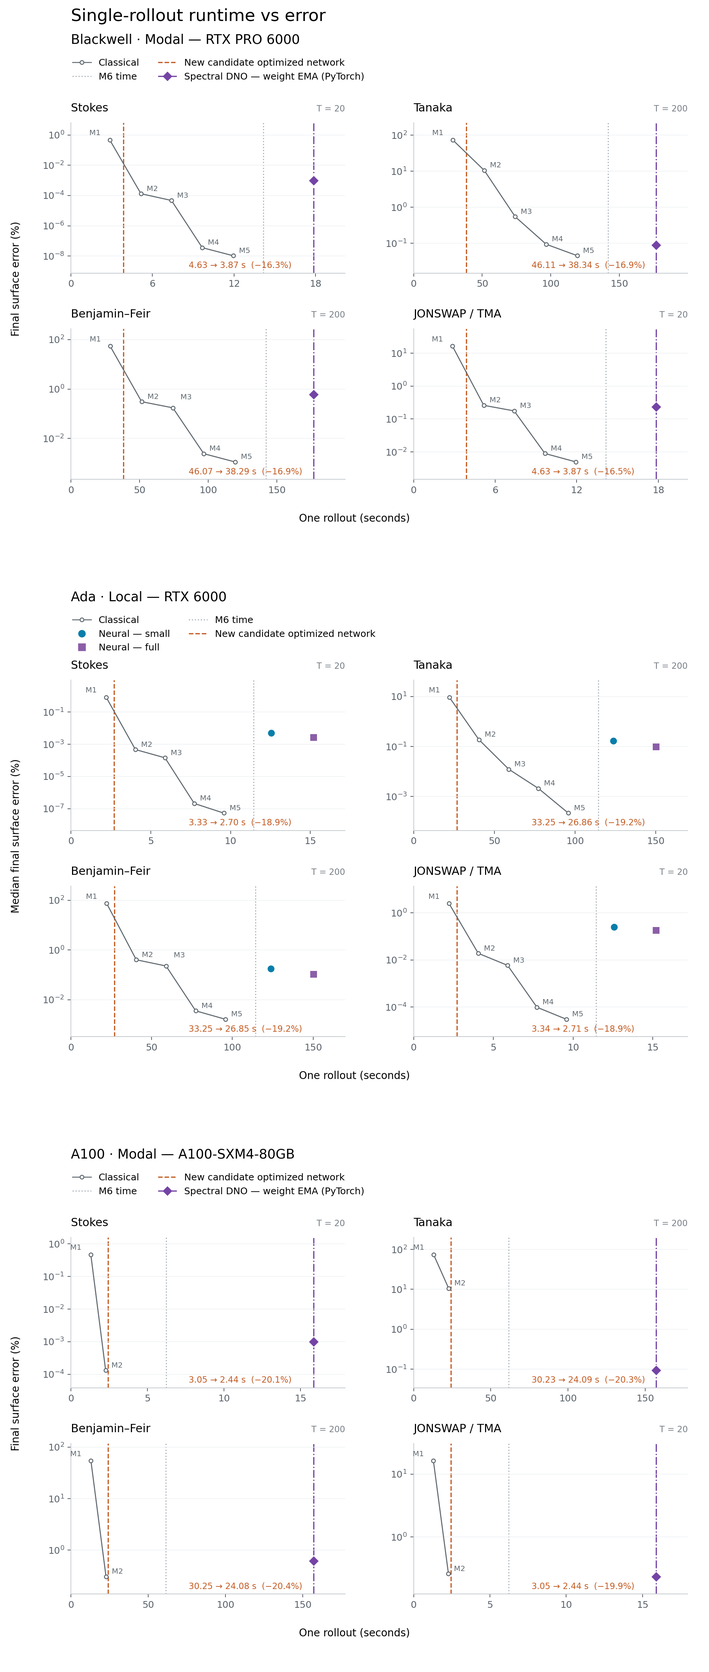
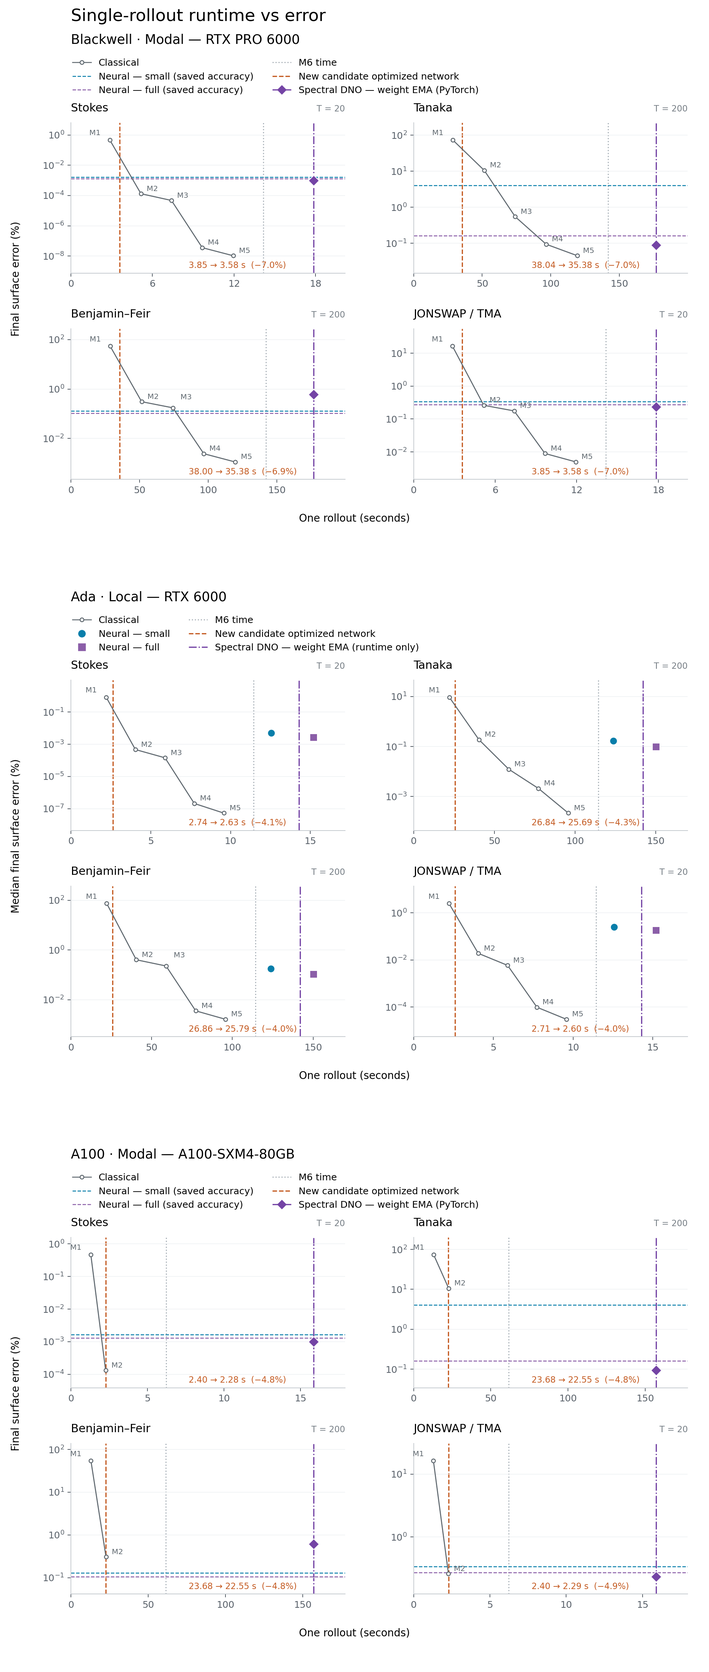
Benchmark cuFFTDx input FFT and refresh rollout comparisons

diff --git a/scripts/benchmark_dno_fusion.py b/scripts/benchmark_dno_fusion.py
@@ -30,7 +30,7 @@ from solver.evals.model_rollout import LoadedRun, build_predict_gxi_batched, loa
 from dno_net_v2 import CraigSulemBlock, CraigSulemDNO, DepthAwareMultiplier  # noqa: E402
 
 VARIANTS = ("original", "g1", "packed", "cached", "all", "batched", "surface", "front")
-TRIALS = ("fourier", "fourier_round", "cufftdx", "cufftdx_joint", "cufftdx_product", "cufftdx_both", "cufftdx_dense", "cufftdx_head",
+TRIALS = ("fourier", "fourier_round", "fourier_reuse", "fourier_input", "cufftdx", "cufftdx_joint", "cufftdx_product", "cufftdx_both", "cufftdx_dense", "cufftdx_head",
           "cufftdx_lowrank16", "cufftdx_lowrank32", "cufftdx_e4", "cufftdx_e16",
           "cufftdx_product_e4", "cufftdx_product_e16")
 
@@ -44,7 +44,7 @@ def build_variant(
         variant, _, suffix = variant.rpartition("_e")
         fft_ept = int(suffix)
     trial = variant
-    spectral_io = variant in ("fourier", "fourier_round")
+    spectral_io = variant.startswith("fourier")
     cufftdx_g1 = variant.startswith("cufftdx")
     if cufftdx_g1 or spectral_io:
         variant = "front"
@@ -92,12 +92,15 @@ def build_variant(
             eta_norm_hat = jnp.fft.rfft(eta_norm)
             xi_phys_hat = (xi_hat.astype(jnp.complex64) / scales[1]) * model.xi_scale
             g1_xi_hat = xi_hat * (model.xi_scale / scales[1]).astype(jnp.float64)
-            if trial == "fourier_round":
-                physical = jnp.fft.irfft(jnp.stack((eta_hat, xi_hat), axis=1), n=nx).astype(jnp.float32)
+            if trial != "fourier":
+                inputs = jnp.stack((eta_hat, xi_hat), axis=1)
+                physical = (fft(inputs, nx, inverse=True, ept=fft_ept) if trial == "fourier_input"
+                            else jnp.fft.irfft(inputs, n=nx)).astype(jnp.float32)
                 normalized = physical / scales[None, :, None]
                 eta_norm, xi_phys = normalized[:, 0], normalized[:, 1] * model.xi_scale
                 eta_norm_hat, xi_phys_hat = jnp.moveaxis(jnp.fft.rfft(jnp.stack((eta_norm, xi_phys), axis=1)), 1, 0)
-                g1_xi_hat = jnp.fft.rfft(xi_phys.astype(jnp.float64))
+                g1_xi_hat = (xi_phys_hat.astype(jnp.complex128) if trial == "fourier_reuse"
+                             else jnp.fft.rfft(xi_phys.astype(jnp.float64)))
             fields = jnp.fft.irfft(jnp.concatenate((
                 surface_ops[None, :, :] * eta_norm_hat[:, None, :],
                 filters * xi_phys_hat[:, None, :],
@@ -249,7 +252,7 @@ if __name__ == "__main__":
     parser.add_argument("--output", type=Path, default=ROOT / "outputs/dno_fusion_20260924")
     parser.add_argument("--repeats", type=int, default=600)
     parser.add_argument("--variants", nargs="+", choices=(*VARIANTS, *TRIALS), default=VARIANTS)
-    parser.add_argument("--reference", choices=("original", "cufftdx"), default="original")
+    parser.add_argument("--reference", choices=("original", "cufftdx", "fourier_round"), default="original")
     parser.add_argument("--ept", type=int, choices=(4, 8, 16), default=8)
     parser.add_argument("--capture", choices=(*VARIANTS, *TRIALS), help="Capture 100 warmed calls of one variant instead of timing/testing.")
     args = parser.parse_args()
@@ -269,7 +272,7 @@ if __name__ == "__main__":
     for variant in (args.capture,) if args.capture else variants:
         started = time.perf_counter()
         forward = build_variant(loaded, depth, eta.shape[-1], variant, fft_ept=args.ept)
-        if variant in ("fourier", "fourier_round"):
+        if variant.startswith("fourier"):
             forward = jax.jit(lambda e, x, fn=forward: jnp.fft.irfft(fn(jnp.fft.rfft(e), jnp.fft.rfft(x)), n=e.shape[-1]))
         executable = forward.lower(eta, xi).compile()
         records[variant] = {"setup_compile_s": time.perf_counter() - started, "seconds": [],
@@ -317,10 +320,13 @@ if __name__ == "__main__":
     check_eta, check_xi = map(jnp.asarray, (np.concatenate(validation_eta), np.concatenate(validation_xi)))
     check_depth = jnp.log(jnp.asarray(np.concatenate(validation_depth)))
     reference_predict = build_variant(loaded, check_depth, eta.shape[-1], args.reference, fft_ept=args.ept)
+    if args.reference.startswith("fourier"):
+        reference_predict = jax.jit(lambda e, x, fn=reference_predict: jnp.fft.irfft(
+            fn(jnp.fft.rfft(e), jnp.fft.rfft(x)), n=e.shape[-1]))
     expected = np.asarray(reference_predict(check_eta, check_xi))
     for variant in (name for name in variants if name != args.reference):
         candidate = build_variant(loaded, check_depth, eta.shape[-1], variant, fft_ept=args.ept)
-        if variant in ("fourier", "fourier_round"):
+        if variant.startswith("fourier"):
             candidate = jax.jit(lambda e, x, fn=candidate: jnp.fft.irfft(fn(jnp.fft.rfft(e), jnp.fft.rfft(x)), n=e.shape[-1]))
         actual = np.asarray(candidate(check_eta, check_xi))
         relative = np.linalg.norm(actual - expected, axis=-1) / np.linalg.norm(expected, axis=-1)
@@ -331,7 +337,7 @@ if __name__ == "__main__":
             "passed": (bool(np.isfinite(actual).all() and relative.max() <= 1e-5)
                        if "lowrank" not in variant else None),
         }
-        if variant in ("fourier", "fourier_round"):
+        if variant.startswith("fourier"):
             other_xi = jnp.roll(check_xi, 1, axis=0)
             other = np.asarray(candidate(check_eta, other_xi))
             mixed = np.asarray(candidate(check_eta, 0.3 * check_xi - 0.7 * other_xi))
@@ -368,6 +374,8 @@ if __name__ == "__main__":
         "Previous combined", "Batch G₁ FFTs", "Batch surface-feature FFTs", "Pack input-side FFTs", "cuFFTDx G₁",
     )))
     labels.update(fourier="Fourier input/output", fourier_round="Fourier I/O · physical input rounding",
+                  fourier_reuse="Reuse FP32 input spectrum for G₁",
+                  fourier_input="cuFFTDx FP64 input inverse FFT",
                   cufftdx_joint="Joint G₁", cufftdx_product="Fused learned products",
                   cufftdx_both="Joint G₁ + learned products", cufftdx_dense="Fused dense activations",
                   cufftdx_head="Non-split projection", cufftdx_lowrank16="Rank-16 surface mixing",

diff --git a/paper-plots/plot_neural_advantage.py b/paper-plots/plot_neural_advantage.py
@@ -106,9 +106,18 @@ def draw_comparison(args: argparse.Namespace, fig: Figure | SubFigure, heading: 
                         color="#606970", fontsize=8)
         ax.axvline(seconds[-1], color="#aab2b9", ls=":", lw=1.2, zorder=1)
         right = float(seconds.max())
-        for run, name, _label, color, marker in (() if args.single_case else RUNS):
+        for run, name, _label, color, marker in RUNS:
             source = next((ROOT / "outputs" / run).glob(
                 f"eval_best_current_test_stratified_n32*/{family}_summary.json"))
+            if args.single_case:
+                with np.load(source.with_name(f"{family}_trajs.npz")) as saved:
+                    selected = np.flatnonzero(saved["simulation_ids"] == warm["families"][family]["simulation_id"])
+                    if len(selected) != 1 or saved["times"][-1] != horizon:
+                        parser.error(f"{source}: saved accuracy case or horizon does not match")
+                    neural_error = 100 * float(saved["rel_l2_eta"][-1, selected[0]])
+                ax.axhline(neural_error, color=color, ls="--", lw=1.0, zorder=1)
+                print(f"{title}, {name}: saved final surface error={neural_error:.6g}%")
+                continue
             result = json.loads(source.read_text())
             neural_seconds = result["surrogate_wall_s"]
             if warm:
@@ -162,8 +171,10 @@ def draw_comparison(args: argparse.Namespace, fig: Figure | SubFigure, heading: 
         fig.text(0.10, 0.921, warm["device"], color="#59616a", fontsize=10)
     fig.legend(handles=[
         Line2D([], [], color="#606970", marker="o", markerfacecolor="white", ms=4, lw=1, label="Classical"),
-        *[Line2D([], [], color=color, marker=marker, ls="none", ms=7, label=f"Neural — {name}")
-          for _, name, _, color, marker in (() if args.single_case else reversed(RUNS))],
+        *[Line2D([], [], color=color, marker=None if args.single_case else marker,
+                  ls="--" if args.single_case else "none", lw=1.0, ms=7,
+                  label=f"Neural — {name}" + (" (saved accuracy)" if args.single_case else ""))
+          for _, name, _, color, marker in reversed(RUNS)],
         Line2D([], [], color="#aab2b9", ls=":", lw=1.2, label="M6 time"),
         *[Line2D([], [], color=color, ls=style, lw=width, label=label)
           for comparison, color, label, _method, style, width in overlays if comparison],
@@ -187,7 +198,7 @@ if __name__ == "__main__":
     parser.add_argument("--no-baseline-timings", type=Path, help="Overlay speed-only full rollouts with model G0+G1 omitted.")
     parser.add_argument("--spectral-timings", type=Path, nargs="+", help="Overlay spectral weight-EMA timings on matching Figure 12 hardware; show errors only on single-case panels.")
     parser.add_argument("--stack-hardware", action="store_true", help="Stack the four-family Blackwell, Ada, and A100 comparisons.")
-    parser.add_argument("--single-case", action="store_true", help="Plot classical single-case errors against cached M6 and candidate timing lines, without archived model points.")
+    parser.add_argument("--single-case", action="store_true", help="Plot single-case errors, saved trained-model accuracy references, and candidate timing lines.")
     parser.add_argument("--output-name", type=Path, help="Output stem, relative to paper-plots/figures or absolute.")
     args = parser.parse_args()
     if (args.classical_timings or args.candidate_timings or args.no_baseline_timings) and not args.timings:
@@ -211,8 +222,11 @@ if __name__ == "__main__":
                 config.timings = paths[0]
             config.classical_timings = paths
             config.candidate_timings = [ROOT / f"outputs/fourier_io_20260926/{hardware}_full/rollouts.json"]
-            config.candidate_method = "fourier_round_spectral_all"
-            config.candidate_previous_method = "fused_cufftdx_spectral_all"
+            config.candidate_timings += ([ROOT / f"outputs/fourier_reuse_20260926/ada_{part}.json"
+                                          for part in ("stokes", "rest")] if hardware == "ada" else [
+                ROOT / f"outputs/fourier_reuse_20260926/{hardware}/rollouts.json"])
+            config.candidate_method = "fourier_input_spectral_all"
+            config.candidate_previous_method = "fourier_round_spectral_all"
             config.no_baseline_timings = None
         a100.timings = a100.candidate_timings[0]
         a100.classical_timings = None

diff --git a/scripts/time_single_rollouts.py b/scripts/time_single_rollouts.py
@@ -51,6 +51,8 @@ FUSION_VARIANTS.update({f"fused_cufftdx_spectral_{packing}": "cufftdx" for packi
 FUSION_VARIANTS["fused_front_spectral_all"] = "front"
 FUSION_VARIANTS["fourier_spectral_all"] = "fourier"
 FUSION_VARIANTS["fourier_round_spectral_all"] = "fourier_round"
+FUSION_VARIANTS["fourier_reuse_spectral_all"] = "fourier_reuse"
+FUSION_VARIANTS["fourier_input_spectral_all"] = "fourier_input"
 FUSION_VARIANTS["baseline-only"] = "cufftdx"
 FUSION_VARIANTS["shared_m1_spectral_all"] = "front"
 
@@ -78,7 +80,8 @@ if __name__ == "__main__":
         parser.error("methods must include the reference; candidate methods require --candidate-run")
     if args.without_baselines and any(method.startswith("M") for method in methods):
         parser.error("--without-baselines applies only to neural methods")
-    if args.without_baselines and set(methods) & {"baseline-only", "shared_m1_spectral_all", "fourier_spectral_all", "fourier_round_spectral_all"}:
+    if args.without_baselines and (set(methods) & {"baseline-only", "shared_m1_spectral_all"}
+                                   or any(method.startswith("fourier_") for method in methods)):
         parser.error("baseline-only, shared_m1_spectral_all and Fourier-I/O methods require analytic baselines")
     loaded = {name: load_run(run) for name, run in RUNS.items()
               if name in methods or (name == "compact" and set(methods) & FUSION_VARIANTS.keys())}

diff --git a/experiments/experiments-2026-09-26.md b/experiments/experiments-2026-09-26.md
@@ -12,3 +12,6 @@
 | 2026-09-26 | 21:32 | Completed Ada/Blackwell Fourier-I/O rollouts and Figure12 | The A100 improvement removes transforms in the common execution path, but device-specific FFT and launch costs require independent full-rollout tests on Ada and Blackwell. | Completed 52 full timings and 20 method/family outputs per GPU: three repeats of M1/M2/old/Fourier candidate and one M6 reference per family. Raw: outputs/fourier_io_20260926/{ada,blackwell}_full/. Median runtime reductions are 18.85–19.24% on RTX 6000 Ada and 16.28–16.90% on RTX PRO 6000 Blackwell Server Edition; the new network takes 33.08–33.70% and 24.84–25.65% less time than paired M2, respectively. Exact old/new/M2 medians are tabulated in notes/dno_profile_20260924.md. Figure12 now shows all three GPUs' new lines and paired savings; existing PyTorch overlays retained. | PASS execution/numerical checks: all 40 outputs finite with positive depth; maximum cached-M6 eta discrepancy 5.08e-12. Same weights, N1024, batch1, dt0.01, four GL2 iterations, pad2, full T20/200. Each GPU passes 24 native checks and 48-state comparison against current cuFFTDx (max relative difference 2.72e-7). Not identical rollout accuracy: Blackwell BF terminal eta error 0.84077→0.94704%; Ada 1.05056→1.05243%. Plot visually inspected; Ruff/Pyright pass. | Blackwell 00:27 (20:58–21:25); Ada 00:21 (21:09–21:30), after waiting for GPU0 to become idle. Figure rendered/checked 21:31; final audit 21:32. | KEEP benchmark-only Fourier-I/O speed improvement with observed rounding-sensitive trajectory differences recorded. No retraining or production changes. Fresh M1/M2 timing coordinates; prior same-device Ada/Blackwell M3–M6 retained; A10080GB remains fresh M1/M2/M6 only. Blackwell app completed/stopped, local rollout exited; Sam's jobs and GPU1 untouched. |
 | 2026-09-26 | 21:36 | Measured model-forward rooflines on A100/Blackwell and Ada profiles | Full-rollout gains do not identify expensive forward kernels; mixed scalar/tensor precision requires separate hardware-counter rooflines instead of a single compiler-estimated FP32 point. | Extended existing profiler with native Fourier/cuFFTDx forwards, separate clean latency/JAX traces, and measured-counter analysis. Collected 12 batch-one N1024 forward profiles (400 clean calls, 20 traced) and 8 A100/Blackwell counter captures covering527 kernels. Figure13 separates FP32/FP64/TF32 groups. TF32 already active; Fourier candidate FP64 FFT/G1 consumes23.2%/62.5%/51.9% of traced GPU busy time on A100/Blackwell/Ada. Clean medians and exact definitions in notes/dno_profile_20260924.md; raw outputs/model_roofline_20260926/. | PASS all12 numerical checks (max1.21e-7); independent CSV/group audit verifies24 precision points. Application replay failed non-deterministic compiled kernel matching; kernel replay succeeded, with fresh retries resolving A100 Fourier/Blackwell full pre-capture crashes. Original failures retained. Ada counter capture DENIED ERR_NVGPUCTRPERM; no estimated points substituted. Ruff/Pyright profiler and plot pass; Modal wrapper py_compile passes (project lacks Modal import for Pyright). Figures visually checked; latest Figure12 refresh retains all12 candidate lines/8 EMA overlays. | Cloud profiling/retries21:13–21:29 (00:16); Ada21:30–21:31 (00:01); figures/analysis completed21:32, documentation21:36. | KEEP measured profiling and Figure13. Ada hardware-counter roofline remains blocked pending administrator access. No training or production changes, no new performance claim from standalone interface comparisons, all jobs exited; Sam/GPU1 untouched. |
 | 2026-09-26 | 21:54 | Spectral transformer weight-EMA Ada timings | An idle local Ada GPU permits the missing hardware comparison using the same checkpoint, software version, ICs and full horizons as the completed cloud measurements. | Three batch-one repeats per family on GPU0 only. Median seconds: Stokes14.287531, Tanaka142.223253, BF142.017246, JON14.296243; raw outputs/torch_ema_20260926/ada_timing/. Ada is1.1045–1.1120x faster than A100-80GB and1.2428–1.2495x faster than Blackwell for this implementation. Single-case terminal eta errors respectively0.000994%,0.030850%,0.594539%,0.233892%; these are not family medians. | PASS: all four cases finite in eta/xi/Gxi, exact cached IDs/times/depths and251 frames; Torch2.14.0+cu130, BF16/FP32 network, FP64 integration, dt0.01, four GL2 iterations, P128 filter, T20/200. All short eager/graph comparisons exact. Independent audit reproduces timings/errors. Device results are not bitwise identical: Ada Tanaka error0.030850% versus A1000.092821%. | Correct-version benchmark21:36–21:52 (00:16); graph setup/warm-up excluded. Initial Torch2.10 probe stopped before any complete family output: uv had inserted the repo environment ahead of the requested packages. Isolated managed-Python execution fixed this; documented --isolated command. | KEEP measured Ada runtime-only lines in Figure12; preserve existing32-case median error points, cloud measurements and concurrent plot edits. Full128-case accuracy suite remains the completed A100 run, not rerun on Ada. No retraining, no Modal worker launch, GPU1 jobs untouched; benchmark exited. |
+| 2026-09-26 | 22:30 | Restore trained-model accuracy references in Figure12 | The cloud single-case plot mode hid the old trained small/full weights' accuracy; saved per-case trajectories permit showing their errors without inventing unmeasured cloud rollout times. | Added16 horizontal accuracy references across Blackwell/A100 using exact simulation IDs and final saved rel_l2_eta; Ada keeps its8 original runtime/error points. Regenerated PNG/PDF and documented the source. | PASS independent before/after artist audit: all16 references equal saved values; all8 Ada points,12 candidate timing lines and8 EMA overlays unchanged. Ruff/Pyright pass; figure visually checked. | CPU-only restore/render/audit completed22:30; no GPU timings. | KEEP saved accuracy references; no model, solver or benchmark changes in this plot fix. |
+| 2026-09-26 | 22:35 | Reuse FP32 xi spectrum for FP64 G1 | The current candidate already computes an FP32 xi spectrum for learned branches; promoting it could remove a separate FP64 forward FFT identified in the profile. | Added benchmark-only fourier_reuse variant. Ada 400-repeat physical-wrapper forward medians188.59→175.96 microseconds, but 48-state maximum relative difference4.05e-4; family maxima Stokes1.97e-5, Tanaka4.05e-4, BF9.84e-5, JON9.99e-5. Raw outputs/fourier_reuse_20260926/ada_screen/. | FAIL unchanged1e-5 numerical threshold. Single Stokes difference7.56e-7 and exact flat/zero tests do not establish general equivalence. Linearity residual2.34e-5 versus9.28e-6 baseline. | Screen completed22:25; no full rollouts for this variant. | REJECT FP32 spectrum reuse. Keep raw failed evidence and isolated benchmark option; retain the separate FP64 G1 transform. No training or production changes. |
+| 2026-09-26 | 22:41 | FP64 cuFFTDx input inverse FFT on Ada, Blackwell and A100 | The measured forward profiles show expensive FP64 FFTs; replacing the network's small batch-two input transform can reduce launch/FFT cost while retaining input rounding and the separate FP64 G1 spectrum. | Added isolated fourier_input variant using the existing native inverse kernel; no new CUDA code. Completed 72 full batch-one timings and 24 outputs, three interleaved repeats per method/family/GPU. Median runtime reductions: Ada3.98–4.27%, Blackwell6.89–6.99%, A10080GB4.75–4.88%; every new repeat beats every control repeat within its family. Exact medians in notes/dno_profile_20260924.md; raw outputs/fourier_reuse_20260926/. Updated Figure12's12 candidate lines and paired savings; preserved48 classical points,12 M6 lines,8 Ada trained points,16 saved cloud accuracy references and12 spectral-EMA overlays including8 cloud error diamonds. | PASS all three48-state checks, maximum DNO discrepancy9.35e-16; both fresh cloud builds pass24 native checks. All rollout outputs finite/positive depth. Accumulated maximum terminal eta difference versus control: Ada1.36e-4, Blackwell6.54e-5, A1004.99e-4; not bitwise identical. Same weights, N1024, dt0.01, GL2iterations4, pad2, FP64 transform and T20/200. Independent numerical/artist audits, visual inspection, Ruff and Pyright pass. | Ada screening22:25–22:26; full runs22:27–22:35 (00:08). Blackwell22:28–22:39 (00:11). A100 app22:29–22:37 (00:07). Figure/audit completed22:40. | KEEP benchmark-only input backend and new Figure12. No training or production edits; local GPU1/Sam jobs untouched, both Modal apps stopped. Classical timings unchanged: no identical N1024 input reconstruction exists in its spectral path. Earlier pad8 cuFFTDx trials do not establish optimality of current pad2 classical FFTs. Rejected FP32 spectrum reuse remains excluded. |

diff --git a/paper-plots/README.md b/paper-plots/README.md
@@ -196,19 +196,29 @@ is saved under `outputs/torch_ema_20260926/evaluation/` (128/128 finite).
 These timings use BF16/FP32 neural inference, FP64 integration, and a reusable
 CUDA graph of the unchanged GL2 step; capture and warm-up are excluded.
 
-All three candidate lines use the Fourier-output candidate `fourier_round_spectral_all`
-from `outputs/fourier_io_20260926/{ada,blackwell,a100}_full/rollouts.json`. Their annotations compare
-three-repeat full-rollout medians against `fused_cufftdx_spectral_all` in the same
-run. The candidate preserves physical-space FP32 input rounding, returns the
+All three candidate lines now use `fourier_input_spectral_all`: the existing
+FP64 cuFFTDx kernel replaces the network's batch-two input inverse FFT, with
+input rounding, normalization, G0/G1 and learned weights unchanged. Their
+annotations compare three-repeat full-rollout medians against
+`fourier_round_spectral_all` in the same run. Measurements are under
+`outputs/fourier_reuse_20260926/`: `ada_stokes.json`, `ada_rest.json`, and
+`{blackwell,a100}/rollouts.json`. The FP32 spectrum-reuse trial in the same
+directory failed accuracy checks and is not plotted.
+
+The preceding Fourier-I/O round is saved in
+`outputs/fourier_io_20260926/{ada,blackwell,a100}_full/rollouts.json`.
+That candidate preserves physical-space FP32 input rounding, returns the
 learned correction and G0 directly in Fourier space, and uses a spectral-output
 cuFFTDx G1 kernel. Runtime decreases by 18.85–19.24% on Ada, 16.28–16.90% on
-Blackwell, and 19.86–20.39% on A100. The A100 allocation is the
-80GB SXM4 variant, so the entire A100 row uses only this run: three repeats for
-M1/M2 and both candidates, and one M6 reference rollout per family. Unmeasured
+Blackwell, and 19.86–20.39% on A100 versus `fused_cufftdx_spectral_all`.
+The A100 allocation is the 80GB SXM4 variant; the classical series uses that
+run's three repeats for M1/M2 and one M6 reference rollout per family. Unmeasured
 M3–M5 are omitted; earlier 40GB A100 timings are not mixed into the new row.
 
-Ada and Blackwell M1/M2 medians are updated from their paired runs; M3–M6 retain
-the preceding three-repeat measurements on the same respective hardware.
+Ada and Blackwell M1/M2 medians retain their preceding Fourier-I/O paired runs;
+M3–M6 retain the earlier three-repeat measurements on the same hardware.
+This input-FFT trial does not rerun classical timings: the spectral classical
+solver has no corresponding unpadded eta/xi input reconstruction.
 
 Each Fourier-I/O comparison uses three full batch-one rollouts of
 M1, M2, the previous candidate and the Fourier-output candidate, plus one M6
@@ -224,7 +234,11 @@ Ada/Blackwell M3–M6 retain the preceding
 three-repeat medians from `outputs/fair_classical_20260925/`, including the
 M6 runtime reference. Ada/Blackwell classical error coordinates are unchanged: Ada retains
 the earlier 32-case medians and small/full neural points; the Modal panels use
-single-case errors against cached M6. The retained and rejected methods are
+single-case errors against cached M6. Blue/purple horizontal lines on the cloud
+panels restore the trained small/full models' saved final errors for the same
+simulation IDs and horizons. They are accuracy-only references from the existing
+Ada evaluations, not new cloud measurements; no cloud runtime is assigned.
+The retained and rejected methods are
 `fused_cufftdx_spectral_all` and `shared_m1_spectral_all`, respectively.
 
 The replacement changes the discrete baseline rather than merely its execution:

diff --git a/notes/dno_profile_20260924.md b/notes/dno_profile_20260924.md
@@ -1114,3 +1114,54 @@ and [Ada whitepaper](https://images.nvidia.com/aem-dam/en-zz/Solutions/technolog
 Ada/Blackwell scalar FP64 reference ceilings use FP32/64. Replay/cache behavior
 follows the [Nsight Compute guide](https://docs.nvidia.com/nsight-compute/ProfilingGuide/).
 KEEP measured profiling/analysis and Figure13; Ada counters remain incomplete.
+
+## FP64 input inverse FFT — September 26
+
+The next profile-guided trial replaces only the native Fourier candidate's
+batch-two, 1024-point FP64 input inverse FFT with the existing cuFFTDx kernel.
+`fourier_input` retains the subsequent FP32 rounding, normalization, separate
+FP64 G1 xi transform, learned weights, G0/G1 and spectral output. No training,
+production edits or new CUDA kernels. Raw: `outputs/fourier_reuse_20260926/`.
+
+First, `fourier_reuse` tried promoting the learned branch's FP32 xi spectrum
+instead of computing G1's separate FP64 transform. Ada forward latency fell
+188.59→175.96 microseconds, but the 48-state maximum discrepancy was 4.05e-4,
+above the unchanged 1e-5 threshold. REJECT; no full rollouts or plot coordinates.
+
+The FP64 backend replacement passes all three 48-state checks, with maximum
+relative discrepancy 9.35e-16; mixed inputs, flat surfaces and zero xi also
+pass. Both cloud builds pass all 24 native checks. Full batch-one rollouts use
+the same candidate checkpoint, N1024, dt0.01, four GL2 iterations, padding2,
+and T20/200. Three interleaved repeats of each method exclude compilation,
+warm-up and transfers. All 72 timings completed, all 24 outputs are finite
+with positive depth, and every new repeat beats every old repeat in its family.
+
+| GPU | Family | Previous (s) | Input cuFFTDx (s) | Reduction |
+| --- | --- | ---: | ---: | ---: |
+| Ada | Stokes | 2.74307 | 2.63164 | 4.06% |
+| Ada | Tanaka | 26.83531 | 25.69058 | 4.27% |
+| Ada | Benjamin–Feir | 26.85620 | 25.78721 | 3.98% |
+| Ada | JONSWAP/TMA | 2.71207 | 2.60358 | 4.00% |
+| Blackwell | Stokes | 3.84705 | 3.57837 | 6.98% |
+| Blackwell | Tanaka | 38.04039 | 35.38005 | 6.99% |
+| Blackwell | Benjamin–Feir | 38.00026 | 35.38024 | 6.89% |
+| Blackwell | JONSWAP/TMA | 3.84568 | 3.57811 | 6.96% |
+| A100 80GB | Stokes | 2.39962 | 2.28496 | 4.78% |
+| A100 80GB | Tanaka | 23.68440 | 22.55491 | 4.77% |
+| A100 80GB | Benjamin–Feir | 23.67864 | 22.55297 | 4.75% |
+| A100 80GB | JONSWAP/TMA | 2.40451 | 2.28724 | 4.88% |
+
+Long trajectories are not bitwise identical. Maximum terminal eta difference
+from the control is 1.36e-4 on Ada, 6.54e-5 on Blackwell and 4.99e-4 on A100.
+For BF, cached-M6 terminal eta errors change from 1.05243→1.05371% on Ada,
+0.955744→0.955664% on Blackwell and 1.05842→1.01498% on A100. The candidate
+remains a runtime-only line, not an accuracy point.
+
+KEEP the benchmark-only FP64 input backend. Figure12 uses these new medians
+and incremental savings, retaining trained-model accuracies and all three
+hardware rows' spectral-EMA overlays. Classical timings are unchanged: its
+spectral path has no corresponding unpadded eta/xi input reconstruction.
+Its padded 2048-point inverse FFTs are different operations; earlier rejected
+cuFFTDx tests used padding8 and do not settle their current backend choice.
+Ada ran on GPU0 only; Sam's GPU1 jobs were untouched. Cloud apps completed
+and stopped. No failed checks were relaxed or slow repeats discarded.

diff --git a/EXPERIMENTS.md b/EXPERIMENTS.md
@@ -33,11 +33,11 @@ could not be recovered at all are in
 
 ## Dated logs
 
-78 files, 1092 rows.
+78 files, 1095 rows.
 
 | Date | Rows | File | Size |
 | --- | --- | --- | --- |
-| 2026-09-26 | 12 | [`experiments/experiments-2026-09-26.md`](experiments/experiments-2026-09-26.md) | 19 KB |
+| 2026-09-26 | 15 | [`experiments/experiments-2026-09-26.md`](experiments/experiments-2026-09-26.md) | 23 KB |
 | 2026-09-25 | 19 | [`experiments/experiments-2026-09-25.md`](experiments/experiments-2026-09-25.md) | 28 KB |
 | 2026-09-24 | 19 | [`experiments/experiments-2026-09-24.md`](experiments/experiments-2026-09-24.md) | 33 KB |
 | 2026-09-23 | 9 | [`experiments/experiments-2026-09-23.md`](experiments/experiments-2026-09-23.md) | 17 KB |
